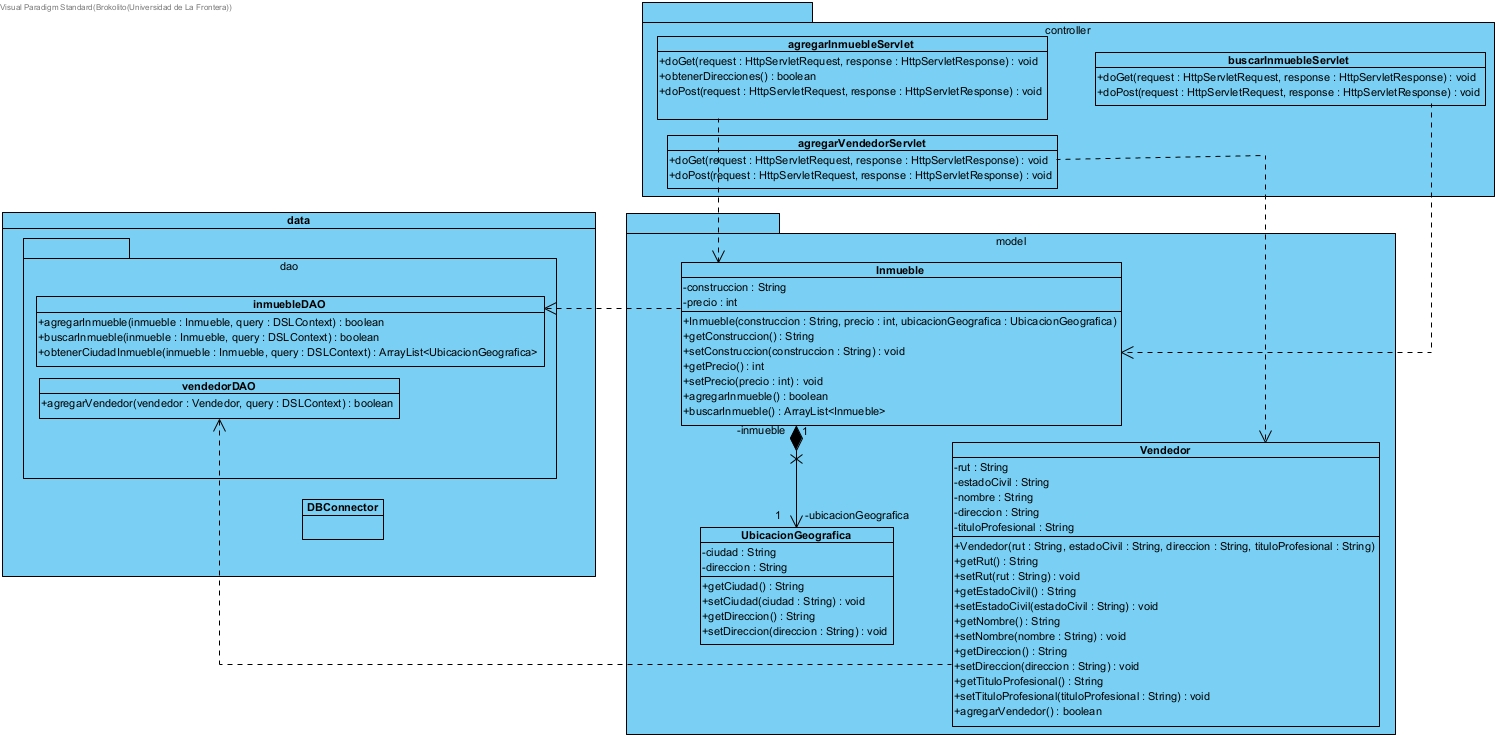
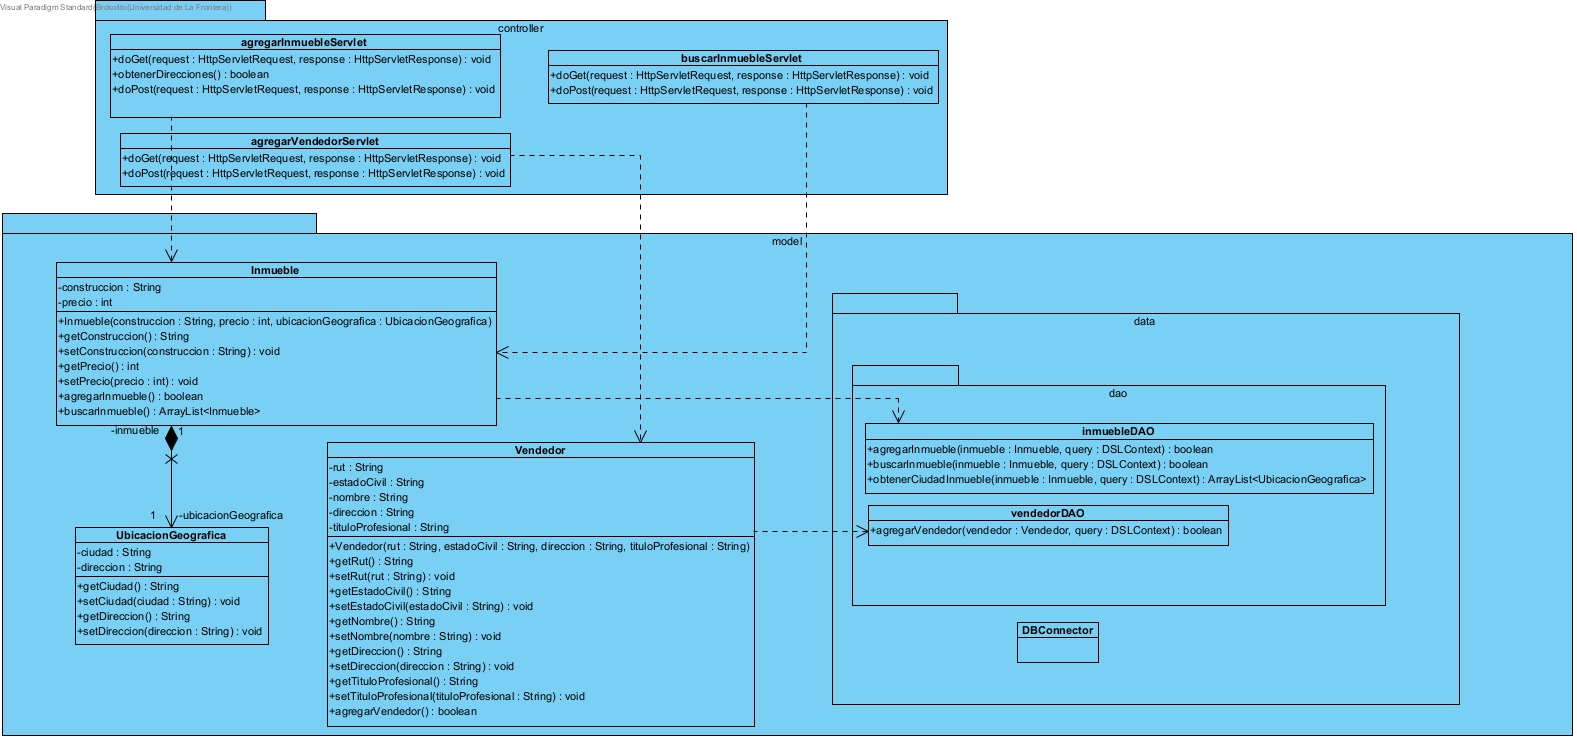
Se modifcan cositas

diff --git a/src/main/java/com/inmueble/inmueblesweb/model/data/dao/inmuebleDAO.java b/src/main/java/com/inmueble/inmueblesweb/model/data/dao/inmuebleDAO.java
@@ -1,4 +1,4 @@
-package dao;
+package com.inmueble.inmueblesweb.model.data.dao;
 
 import model.UbicacionGeografica;
 import model.Inmueble;

diff --git a/src/main/java/com/inmueble/inmueblesweb/model/UbicacionGeografica.java b/src/main/java/com/inmueble/inmueblesweb/model/UbicacionGeografica.java
@@ -1,4 +1,4 @@
-package model;
+package com.inmueble.inmueblesweb.model;
 
 public class UbicacionGeografica {
 	private String ciudad;

diff --git a/src/main/java/com/inmueble/inmueblesweb/model/Inmueble.java b/src/main/java/com/inmueble/inmueblesweb/model/Inmueble.java
@@ -1,4 +1,4 @@
-package model;
+package com.inmueble.inmueblesweb.model;
 
 public class Inmueble {
 	private String construccion;

diff --git a/src/main/java/com/inmueble/inmueblesweb/controller/agregarInmuebleServlet.java b/src/main/java/com/inmueble/inmueblesweb/controller/agregarInmuebleServlet.java
@@ -1,4 +1,4 @@
-package controller;
+package com.inmueble.inmueblesweb.controller;
 
 public class agregarInmuebleServlet {
 

diff --git a/src/main/java/com/inmueble/inmueblesweb/controller/agregarVendedorServlet.java b/src/main/java/com/inmueble/inmueblesweb/controller/agregarVendedorServlet.java
@@ -1,4 +1,4 @@
-package controller;
+package com.inmueble.inmueblesweb.controller;
 
 public class agregarVendedorServlet {
 

diff --git a/src/main/java/com/inmueble/inmueblesweb/controller/buscarInmuebleServlet.java b/src/main/java/com/inmueble/inmueblesweb/controller/buscarInmuebleServlet.java
@@ -1,4 +1,4 @@
-package controller;
+package com.inmueble.inmueblesweb.controller;
 
 public class buscarInmuebleServlet {
 

diff --git a/src/main/java/com/inmueble/inmueblesweb/model/Vendedor.java b/src/main/java/com/inmueble/inmueblesweb/model/Vendedor.java
@@ -1,4 +1,4 @@
-package model;
+package com.inmueble.inmueblesweb.model;
 
 public class Vendedor {
 	private String rut;

diff --git a/src/main/java/com/inmueble/inmueblesweb/model/data/dao/vendedorDAO.java b/src/main/java/com/inmueble/inmueblesweb/model/data/dao/vendedorDAO.java
@@ -1,4 +1,4 @@
-package dao;
+package com.inmueble.inmueblesweb.model.data.dao;
 
 public class vendedorDAO {
 
